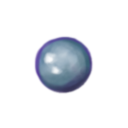
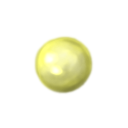
若干小调整

Changed region(s): [[0.25, 0.2812, 0.75, 0.75]]

diff --git a/src/main/java/nearlmod/powers/FriendShelterPower.java b/src/main/java/nearlmod/powers/FriendShelterPower.java
@@ -20,8 +20,8 @@ public class FriendShelterPower extends AbstractPower implements CloneablePowerI
         name = NAME;
         ID = POWER_ID;
         this.owner = owner;
-        region128 = new TextureAtlas.AtlasRegion(ImageMaster.loadImage("images/powers/light power 84.png"), 0, 0, 84, 84); // TODO
-        region48 = new TextureAtlas.AtlasRegion(ImageMaster.loadImage("images/powers/light power 32.png"), 0, 0, 32, 32);
+        region128 = new TextureAtlas.AtlasRegion(ImageMaster.loadImage("images/powers/friendshelter power 84.png"), 0, 0, 84, 84); // TODO
+        region48 = new TextureAtlas.AtlasRegion(ImageMaster.loadImage("images/powers/friendshelter power 32.png"), 0, 0, 32, 32);
         type = PowerType.BUFF;
         priority = 120;
         updateDescription();

diff --git a/src/main/java/nearlmod/relics/BloodEntangle.java b/src/main/java/nearlmod/relics/BloodEntangle.java
@@ -18,8 +18,8 @@ public class BloodEntangle extends CustomRelic {
     public static final RelicStrings relicStrings = CardCrawlGame.languagePack.getRelicStrings(ID);
     public static final String NAME = relicStrings.NAME;
     public static final String[] DESCRIPTIONS = relicStrings.DESCRIPTIONS;
-    public static final Texture IMG = new Texture("images/relics/cureup.png");
-    public static final Texture IMG_OUTLINE = new Texture("images/relics/cureup_p.png");
+    public static final Texture IMG = new Texture("images/relics/bloodentangle.png");
+    public static final Texture IMG_OUTLINE = new Texture("images/relics/bloodentangle_p.png");
     public BloodEntangle() {
         super(ID, IMG, IMG_OUTLINE, CurseRelicPatch.CURSE, LandingSound.HEAVY);
     }

diff --git a/src/main/java/nearlmod/relics/Revenge.java b/src/main/java/nearlmod/relics/Revenge.java
@@ -17,8 +17,8 @@ public class Revenge extends CustomRelic {
     public static final RelicStrings relicStrings = CardCrawlGame.languagePack.getRelicStrings(ID);
     public static final String NAME = relicStrings.NAME;
     public static final String[] DESCRIPTIONS = relicStrings.DESCRIPTIONS;
-    public static final Texture IMG = new Texture("images/relics/cureup.png");
-    public static final Texture IMG_OUTLINE = new Texture("images/relics/cureup_p.png");
+    public static final Texture IMG = new Texture("images/relics/revenge.png");
+    public static final Texture IMG_OUTLINE = new Texture("images/relics/revenge_p.png");
     public Revenge() {
         super(ID, IMG, IMG_OUTLINE, CurseRelicPatch.CURSE, LandingSound.HEAVY);
     }

diff --git a/src/main/java/nearlmod/potions/ChangeStancePotion.java b/src/main/java/nearlmod/potions/ChangeStancePotion.java
@@ -21,7 +21,7 @@ public class ChangeStancePotion extends AbstractPotion {
     public static final String NAME = potionStrings.NAME;
     public static final String[] DESCRIPTIONS = potionStrings.DESCRIPTIONS;
     public ChangeStancePotion() {
-        super(NAME, ID, PotionRarity.COMMON, PotionSize.SPHERE, PotionColor.ANCIENT);
+        super(NAME, ID, PotionRarity.UNCOMMON, PotionSize.SPHERE, PotionColor.ANCIENT);
         labOutlineColor = NLMOD.NearlGold;
         isThrown = false;
         targetRequired = false;

diff --git a/src/main/java/nearlmod/monsters/WitheredKnight.java b/src/main/java/nearlmod/monsters/WitheredKnight.java
@@ -71,7 +71,7 @@ public class WitheredKnight extends AbstractMonster {
                     AbstractDungeon.effectList.add(new SpeechBubble(orb.hb.cX + 60.0F, orb.hb.cY + 30.0F, 3.0F, DIALOG[3], true));
                     break;
                 }
-            addToBot(new ApplyPowerAction(p, p, new FriendShelterPower(p)));
+            addToTop(new ApplyPowerAction(p, p, new FriendShelterPower(p)));
         }
         addToBot(new ApplyPowerAction(p, this, new FrailPower(p, 1, true)));
         int attTimes = 1;

diff --git a/src/main/java/nearlmod/potions/BottledCommand.java b/src/main/java/nearlmod/potions/BottledCommand.java
@@ -16,7 +16,7 @@ public class BottledCommand extends AbstractPotion {
     public static final String NAME = potionStrings.NAME;
     public static final String[] DESCRIPTIONS = potionStrings.DESCRIPTIONS;
     public BottledCommand() {
-        super(NAME, ID, PotionRarity.COMMON, PotionSize.SPHERE, PotionColor.BLUE);
+        super(NAME, ID, PotionRarity.COMMON, PotionSize.BOLT, PotionColor.BLUE);
         labOutlineColor = NLMOD.NearlGold;
         isThrown = false;
         targetRequired = false;

diff --git a/src/main/java/nearlmod/potions/FriendshipDrink.java b/src/main/java/nearlmod/potions/FriendshipDrink.java
@@ -18,7 +18,7 @@ public class FriendshipDrink extends AbstractPotion {
     public static final String NAME = potionStrings.NAME;
     public static final String[] DESCRIPTIONS = potionStrings.DESCRIPTIONS;
     public FriendshipDrink() {
-        super(NAME, ID, PotionRarity.COMMON, PotionSize.M, PotionColor.POWER);
+        super(NAME, ID, PotionRarity.UNCOMMON, PotionSize.M, PotionColor.POWER);
         labOutlineColor = NLMOD.NearlGold;
         isThrown = false;
         targetRequired = false;

diff --git a/src/main/java/nearlmod/potions/LayeredElixir.java b/src/main/java/nearlmod/potions/LayeredElixir.java
@@ -17,7 +17,7 @@ public class LayeredElixir extends AbstractPotion {
     public static final String NAME = potionStrings.NAME;
     public static final String[] DESCRIPTIONS = potionStrings.DESCRIPTIONS;
     public LayeredElixir() {
-        super(NAME, ID, PotionRarity.RARE, PotionSize.H, PotionColor.ELIXIR);
+        super(NAME, ID, PotionRarity.RARE, PotionSize.GHOST, PotionColor.ELIXIR);
         labOutlineColor = NLMOD.NearlGold;
         isThrown = false;
         targetRequired = false;

diff --git a/src/main/java/nearlmod/monsters/CorruptKnight.java b/src/main/java/nearlmod/monsters/CorruptKnight.java
@@ -83,7 +83,7 @@ public class CorruptKnight extends AbstractMonster {
                     AbstractDungeon.effectList.add(new SpeechBubble(orb.hb.cX + 60.0F, orb.hb.cY + 30.0F, 3.0F, DIALOG[3], true));
                     break;
                 }
-            addToBot(new ApplyPowerAction(p, p, new FriendShelterPower(p)));
+            addToTop(new ApplyPowerAction(p, p, new FriendShelterPower(p)));
         }
         int attTimes = 1;
         if (isWhitheredDead) attTimes++;
